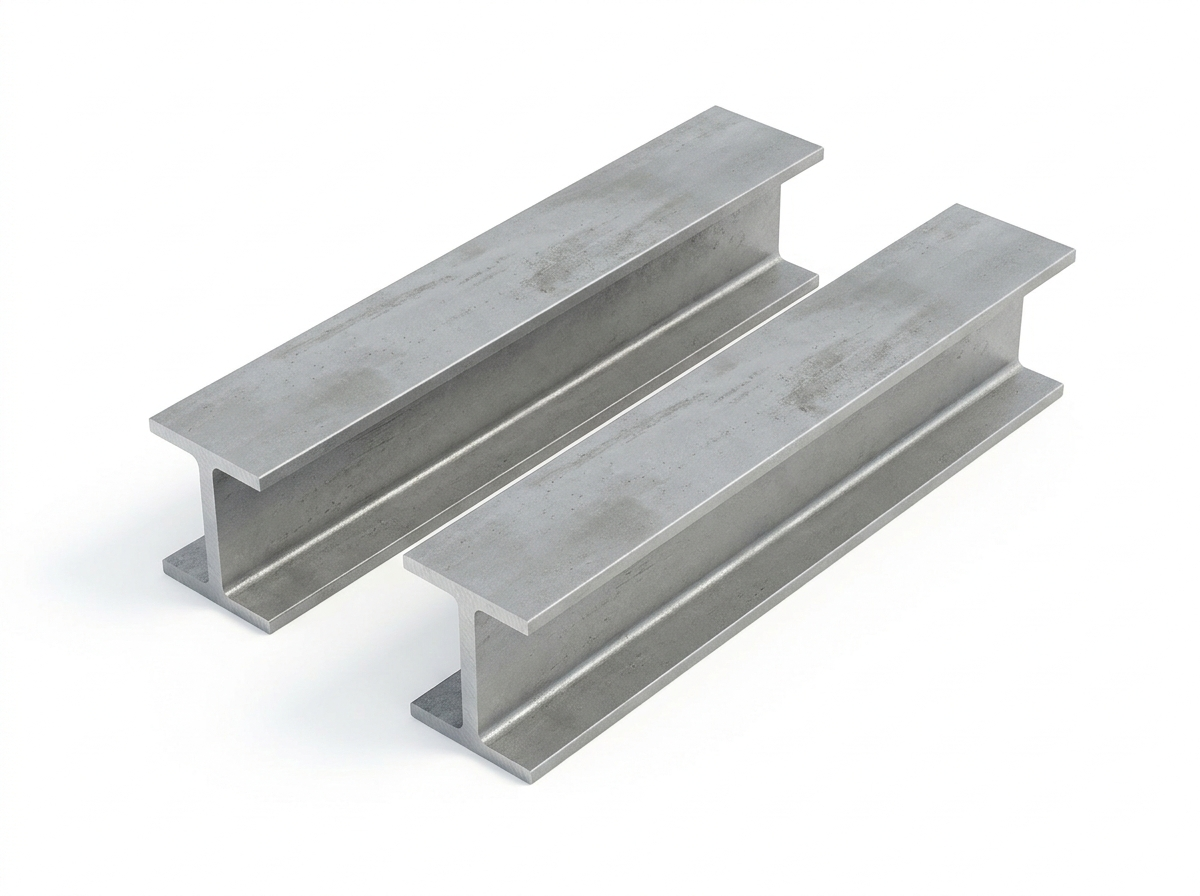
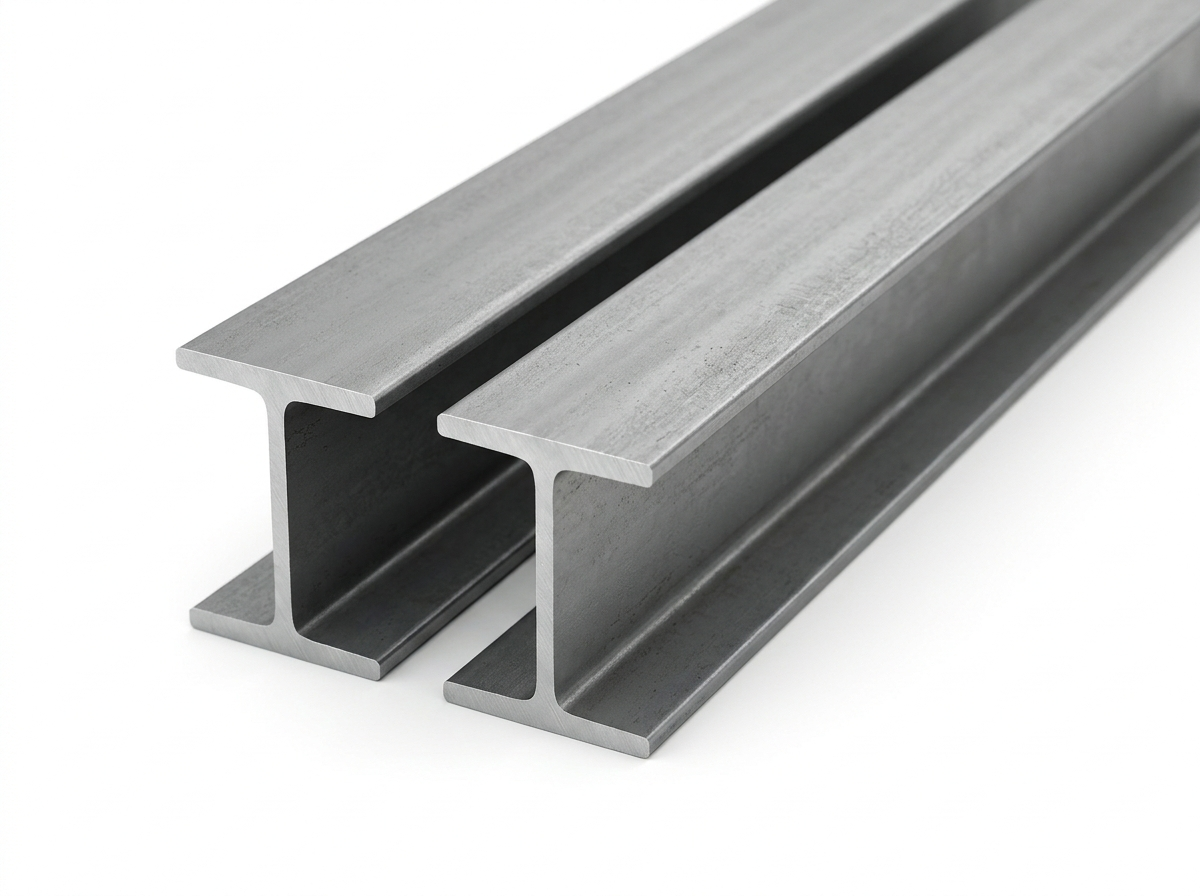
Картинки чатов 6–9: торцы для карточки, оборудование, страницы, новая плитка балки
Claude-Session: https://claude.ai/code/session_01Rceo4qVeGadTUQMtwzvzqH

diff --git a/scripts/cutout-assets-6.py b/scripts/cutout-assets-6.py
@@ -1,0 +1,78 @@
+"""Картинки по брифу «чаты 6–9»: вырезает фон и сохраняет WebP в public/.
+
+    python3 scripts/cutout-assets-6.py   (нужен rembg[cpu] и Pillow)
+    python3 scripts/make-variants.py     (уменьшенные копии для srcset)
+
+- ends/       торцы крупным планом для карточки товара. Объект во весь кадр и уходит за край —
+              rembg режет такие неуверенно (трубы темнеют), поэтому фон НЕ вырезаем: белый фон
+              убирается на сайте через mix-blend-mode: multiply поверх подложки.
+- equipment/  оборудование цеха — кадрируем по объекту.
+- pages/      иллюстрации страниц — кадрируем по объекту; kmd (чертёж на столе) — без вырезки,
+              стол занимает весь кадр.
+- renders/balka.jpg → public/catalog/balka.webp — новая плитка балки, кадр в пропорции
+              остальных плиток каталога.
+"""
+from pathlib import Path
+
+from PIL import Image
+
+from cutout_lib import cutout
+
+MARGIN = 0.04
+TILE_SIZE = (1049, 812)  # размер остальных плиток public/catalog/*.webp
+
+
+def save(img: Image.Image, dst: Path, width: int) -> None:
+    if img.width > width:
+        img = img.resize((width, round(img.height * width / img.width)), Image.LANCZOS)
+    dst.parent.mkdir(parents=True, exist_ok=True)
+    img.save(dst, "WEBP", quality=82, method=6, alpha_quality=90)
+    print(dst, img.size, f"{dst.stat().st_size // 1024} КБ")
+
+
+def crop_to_object(img: Image.Image, box: tuple[int, int, int, int]) -> Image.Image:
+    x0, y0, x1, y1 = box
+    pad = int(img.width * MARGIN)
+    # тень лежит ниже объекта — снизу поле чуть больше
+    return img.crop((max(0, x0 - pad), max(0, y0 - pad), min(img.width, x1 + pad), min(img.height, y1 + int(pad * 1.5))))
+
+
+def rgb(path: Path) -> Image.Image:
+    return Image.open(path).convert("RGB")
+
+
+# Торцы: полный кадр, белый фон оставляем (см. выше)
+for path in sorted(Path("docs/assets-src/ends").glob("*.jpg")):
+    img = rgb(path)
+    save(img, Path("public/ends") / f"{path.stem}.webp", 1200)
+
+# Оборудование: по объекту
+for path in sorted(Path("docs/assets-src/equipment").glob("*.jpg")):
+    img, box = cutout(rgb(path))
+    save(crop_to_object(img, box), Path("public/equipment") / f"{path.stem}.webp", 1200)
+
+# Страницы
+for path in sorted(Path("docs/assets-src/pages").glob("*.jpg")):
+    if path.stem == "kmd":
+        save(rgb(path), Path("public/pages/kmd.webp"), 1600)
+        continue
+    img, box = cutout(rgb(path))
+    save(crop_to_object(img, box), Path("public/pages") / f"{path.stem}.webp", 1600)
+
+# Плитка балки: кадр по объекту, дополняем до пропорции плиток каталога
+img, (x0, y0, x1, y1) = cutout(rgb(Path("docs/assets-src/renders/balka.jpg")))
+pad = int(img.width * MARGIN)
+x0, y0, x1, y1 = max(0, x0 - pad), max(0, y0 - pad), min(img.width, x1 + pad), min(img.height, y1 + pad)
+tw, th = TILE_SIZE
+need_h = round((x1 - x0) * th / tw)
+if need_h > y1 - y0:  # объект широкий — добираем высоту поровну сверху и снизу
+    extra = need_h - (y1 - y0)
+    y0 = max(0, y0 - extra // 2)
+    y1 = min(img.height, y0 + need_h)
+else:
+    need_w = round((y1 - y0) * tw / th)
+    extra = need_w - (x1 - x0)
+    x0 = max(0, x0 - extra // 2)
+    x1 = min(img.width, x0 + need_w)
+tile = img.crop((x0, y0, x1, y1)).resize(TILE_SIZE, Image.LANCZOS)
+save(tile, Path("public/catalog/balka.webp"), tw)

diff --git a/scripts/make-variants.py b/scripts/make-variants.py
@@ -13,6 +13,9 @@ JOBS = {
     "truck": (640,),
     "globe": (640,),
     "workshop": (800,),
+    "ends": (640,),
+    "equipment": (640,),
+    "pages": (800,),
 }
 for folder, widths in JOBS.items():
     for src in sorted((PUBLIC / folder).glob("*.webp")):
